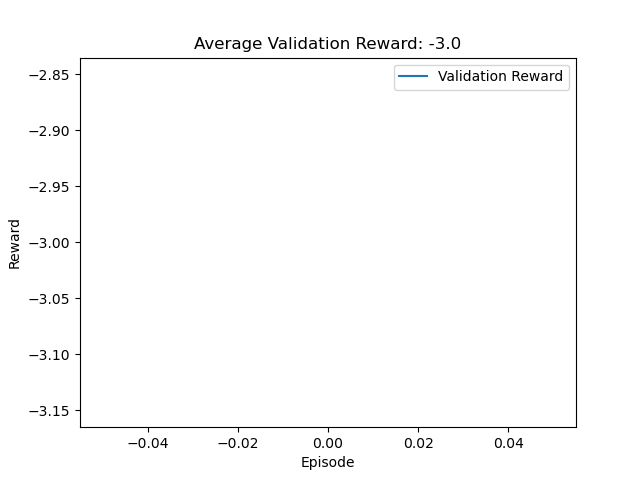
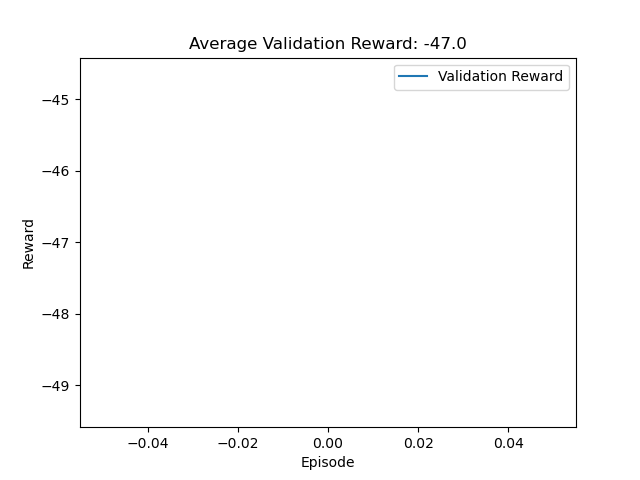
more tests

diff --git a/deep_q_agent_MK2.py b/deep_q_agent_MK2.py
@@ -162,14 +162,14 @@ Transition = namedtuple('Transition',
 
 
 K = .3 #confidence threshold: don't sell or buy if the difference in their confidences % is less than K
-REPLAY_MEMORY = 8
+REPLAY_MEMORY = 128
 BATCH_SIZE = 4
-GAMMA = 0.999
+GAMMA = 0.5 # discount factor
 EPS_START = 0.3
 EPS_END = 0.05
 EPS_DECAY = 200
-TARGET_UPDATE = 100
-NUM_EPISODES = 500
+TARGET_UPDATE = 25
+NUM_EPISODES = 2000
 STEPS_PER_EP = 24
 DATA_ROOT = './data/hourly/'
 VALIDATION_SPLIT = .2
